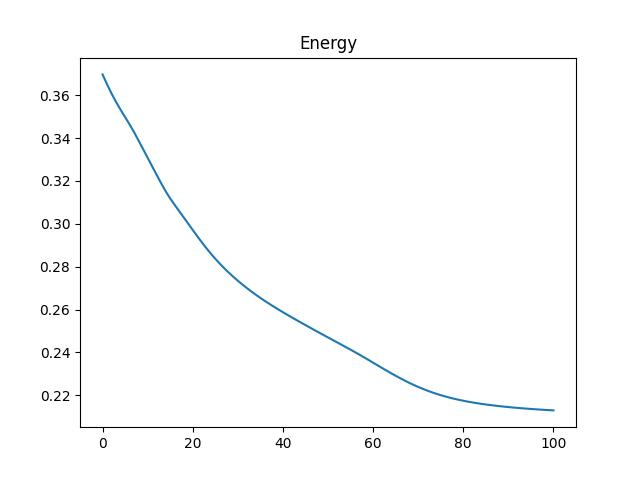
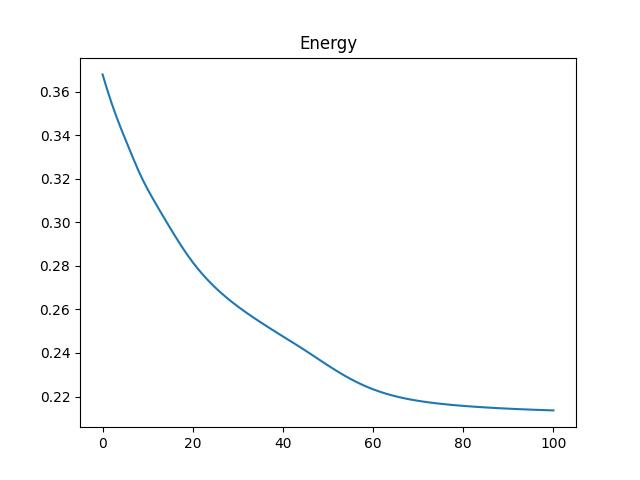
Ajout de l'etude fréquentielle

diff --git a/energie.py b/energie.py
@@ -5,6 +5,7 @@ import matplotlib.pyplot as plt
 import demo_control_polycopie2023
 import numpy
 import _env
+import demo_control_polycopie2023 as solution 
 
 if __name__ == '__main__':
 
@@ -28,7 +29,29 @@ if __name__ == '__main__':
     
     def g(x,omega):
         return (numpy.sin(omega*x/c_0) + numpy.sin(10*omega*x/c_0))*numpy.exp(-((x-0.5)**2)/2)
-    
+    """L'enrgie pour  partout 0  """
+    for elem in omega:
+        chi = preprocessing._set_chi(M, N, x, y)
+        chi = preprocessing.set2zero(chi, domain_omega)
+
+        f_dir[:, :] = 0.0
+        for j in range(N):
+            f_dir[:, j] = g(j/N, elem)  
+        
+        Alpha = compute_alpha.compute_alpha(elem, material)
+        alpha_rob = Alpha[0] * chi
+        u = processing.solve_helmholtz(domain_omega, spacestep, elem/c_0, f, f_dir, f_neu, f_rob, beta_pde, alpha_pde, alpha_dir, beta_neu, beta_rob, alpha_rob)
+        energie.append(demo_control_polycopie2023.compute_objective_function(domain_omega, u, spacestep))
+
+    plt.plot(omega, energie, marker = 'x', color = 'darkblue')
+    plt.plot(omega, energie, color = 'darkblue')
+    plt.title('Graphe de $J(\chi)$ en fonction de $\omega$; chi = 0 sur neuman ')
+    plt.xlabel('Fréquence $\omega$')
+    plt.ylabel('Énergie $J(\chi)$')
+    plt.show()
+
+
+    """l'énergie de avec un xi partout égale à 1 """
     for elem in omega:
         chi = preprocessing._set_chi(M, N, x, y)
         chi = preprocessing.set2zero(chi, domain_omega)
@@ -43,10 +66,55 @@ if __name__ == '__main__':
         alpha_rob = Alpha[0] * chi
         u = processing.solve_helmholtz(domain_omega, spacestep, elem/c_0, f, f_dir, f_neu, f_rob, beta_pde, alpha_pde, alpha_dir, beta_neu, beta_rob, alpha_rob)
         energie.append(demo_control_polycopie2023.compute_objective_function(domain_omega, u, spacestep))
-
+    
+    
     plt.plot(omega, energie, marker = 'x', color = 'darkblue')
     plt.plot(omega, energie, color = 'darkblue')
-    plt.title('Graphe de $J(\chi)$ en fonction de $\omega$')
+    plt.title('Graphe de $J(\chi)$ en fonction de $\omega$; chi = 1 sur neuman ')
+    plt.xlabel('Fréquence $\omega$')
+    plt.ylabel('Énergie $J(\chi)$')
+    plt.show()
+
+
+    """l'énergie de avec un xi optimisé pour V_obj fixée  """
+    for elem in omega:
+        chi = preprocessing._set_chi(M, N, x, y)
+        chi = preprocessing.set2zero(chi, domain_omega)
+        # -- set parameters for optimization
+        S = 0  # surface of the fractal
+        for i in range(0, M):
+            for j in range(0, N):
+                if domain_omega[i, j] == _env.NODE_ROBIN:
+                    S += 1
+        V_0 = 1  # initial volume of the domain
+        V_obj = numpy.sum(numpy.sum(chi)) / S  # constraint on the density
+        mu = 1# initial gradient step
+        mu1 = 10 ** (-5)  # parameter of the volume functional
+
+
+        f_dir[:, :] = 0.0
+        for j in range(N):
+            f_dir[:, j] = g(j/N, elem)  
+        Alpha = compute_alpha.compute_alpha(elem, material)
+        alpha_rob = Alpha[0] * chi
+        u = processing.solve_helmholtz(domain_omega, spacestep, elem/c_0, f, f_dir, f_neu, f_rob, beta_pde, alpha_pde, alpha_dir, beta_neu, beta_rob, alpha_rob)
+
+
+        # -- compute optimization
+        energy = numpy.zeros((100+1, 1), dtype=numpy.float64)
+        # chi, energy, u, grad = your_optimization_procedure(...)
+        chi, energy, u, grad = solution. optimization_procedure(domain_omega, spacestep, elem/c_0, f, f_dir, f_neu, f_rob,
+                            beta_pde, alpha_pde, alpha_dir, beta_neu, beta_rob, alpha_rob,
+                            Alpha, mu, chi, V_obj)
+        # --- en of optimization
+
+
+        energie.append(demo_control_polycopie2023.compute_objective_function(domain_omega, u, spacestep))
+    
+    
+    plt.plot(omega, energie, marker = 'x', color = 'darkblue')
+    plt.plot(omega, energie, color = 'darkblue')
+    plt.title('Graphe de $J(\chi)$ en fonction de $\omega$; optimisé pour v_obj fixé  ')
     plt.xlabel('Fréquence $\omega$')
     plt.ylabel('Énergie $J(\chi)$')
     plt.show()

diff --git a/demo_control_polycopie2023.py b/demo_control_polycopie2023.py
@@ -160,7 +160,7 @@ def optimization_procedure(domain_omega, spacestep, omega, f, f_dir, f_neu, f_ro
 
     k = 0
     (M, N) = numpy.shape(domain_omega)
-    numb_iter = 100
+    numb_iter = 10
     epsilon_0 = 10 ** -5
    
 
@@ -216,9 +216,9 @@ if __name__ == '__main__':
     # -- Fell free to modify the function call in this cell.
     # ----------------------------------------------------------------------
     # -- set parameters of the geometry
-    N = 64  # number of points along x-axis
+    N = 100  # number of points along x-axis
     M = 2 * N  # number of points along y-axis
-    level = 0 # level of the fractal
+    level = 1 # level of the fractal
     spacestep = 1.0 / N  # mesh size
     
     # Material = [phi, gamma_p, sigma, rho_0, alpha_h, c_0]
@@ -250,6 +250,8 @@ if __name__ == '__main__':
 
     omega = 2*numpy.pi*100
     wavenumber = omega/material[-1]
+    wavelength = 2*numpy.pi/wavenumber
+
 
     # planar wave defined on top
     c_0 = material[-1]
